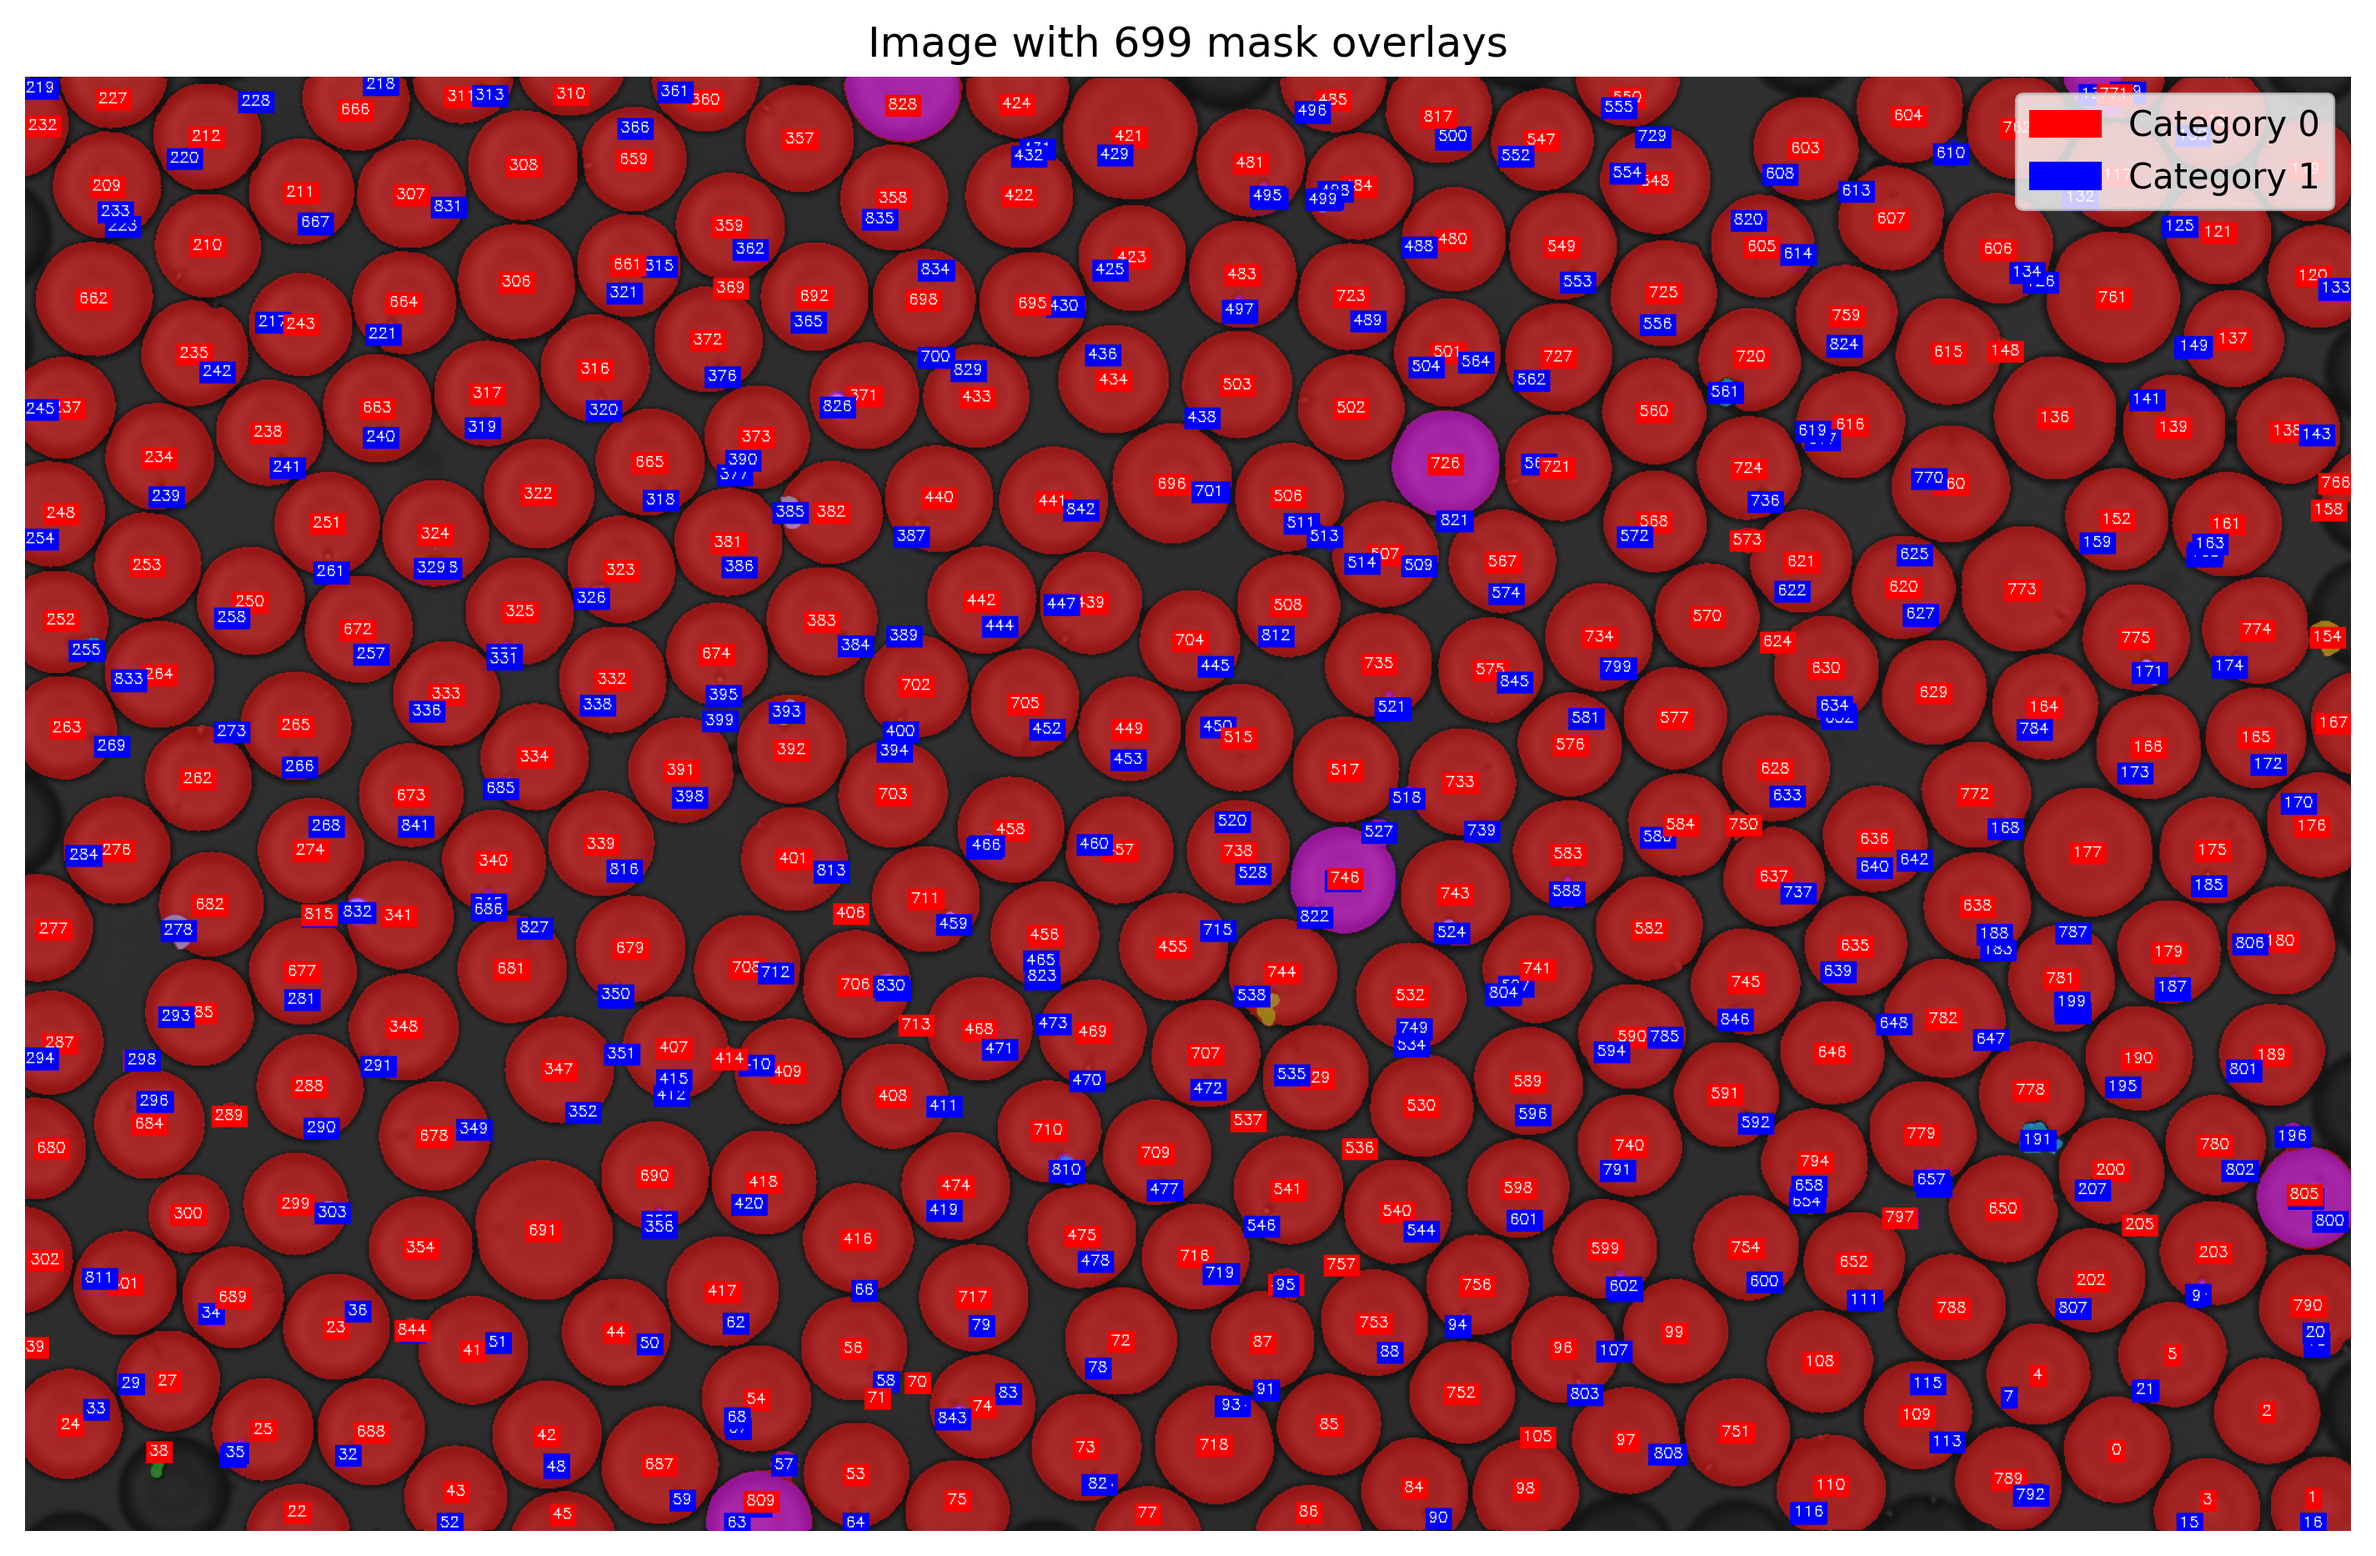
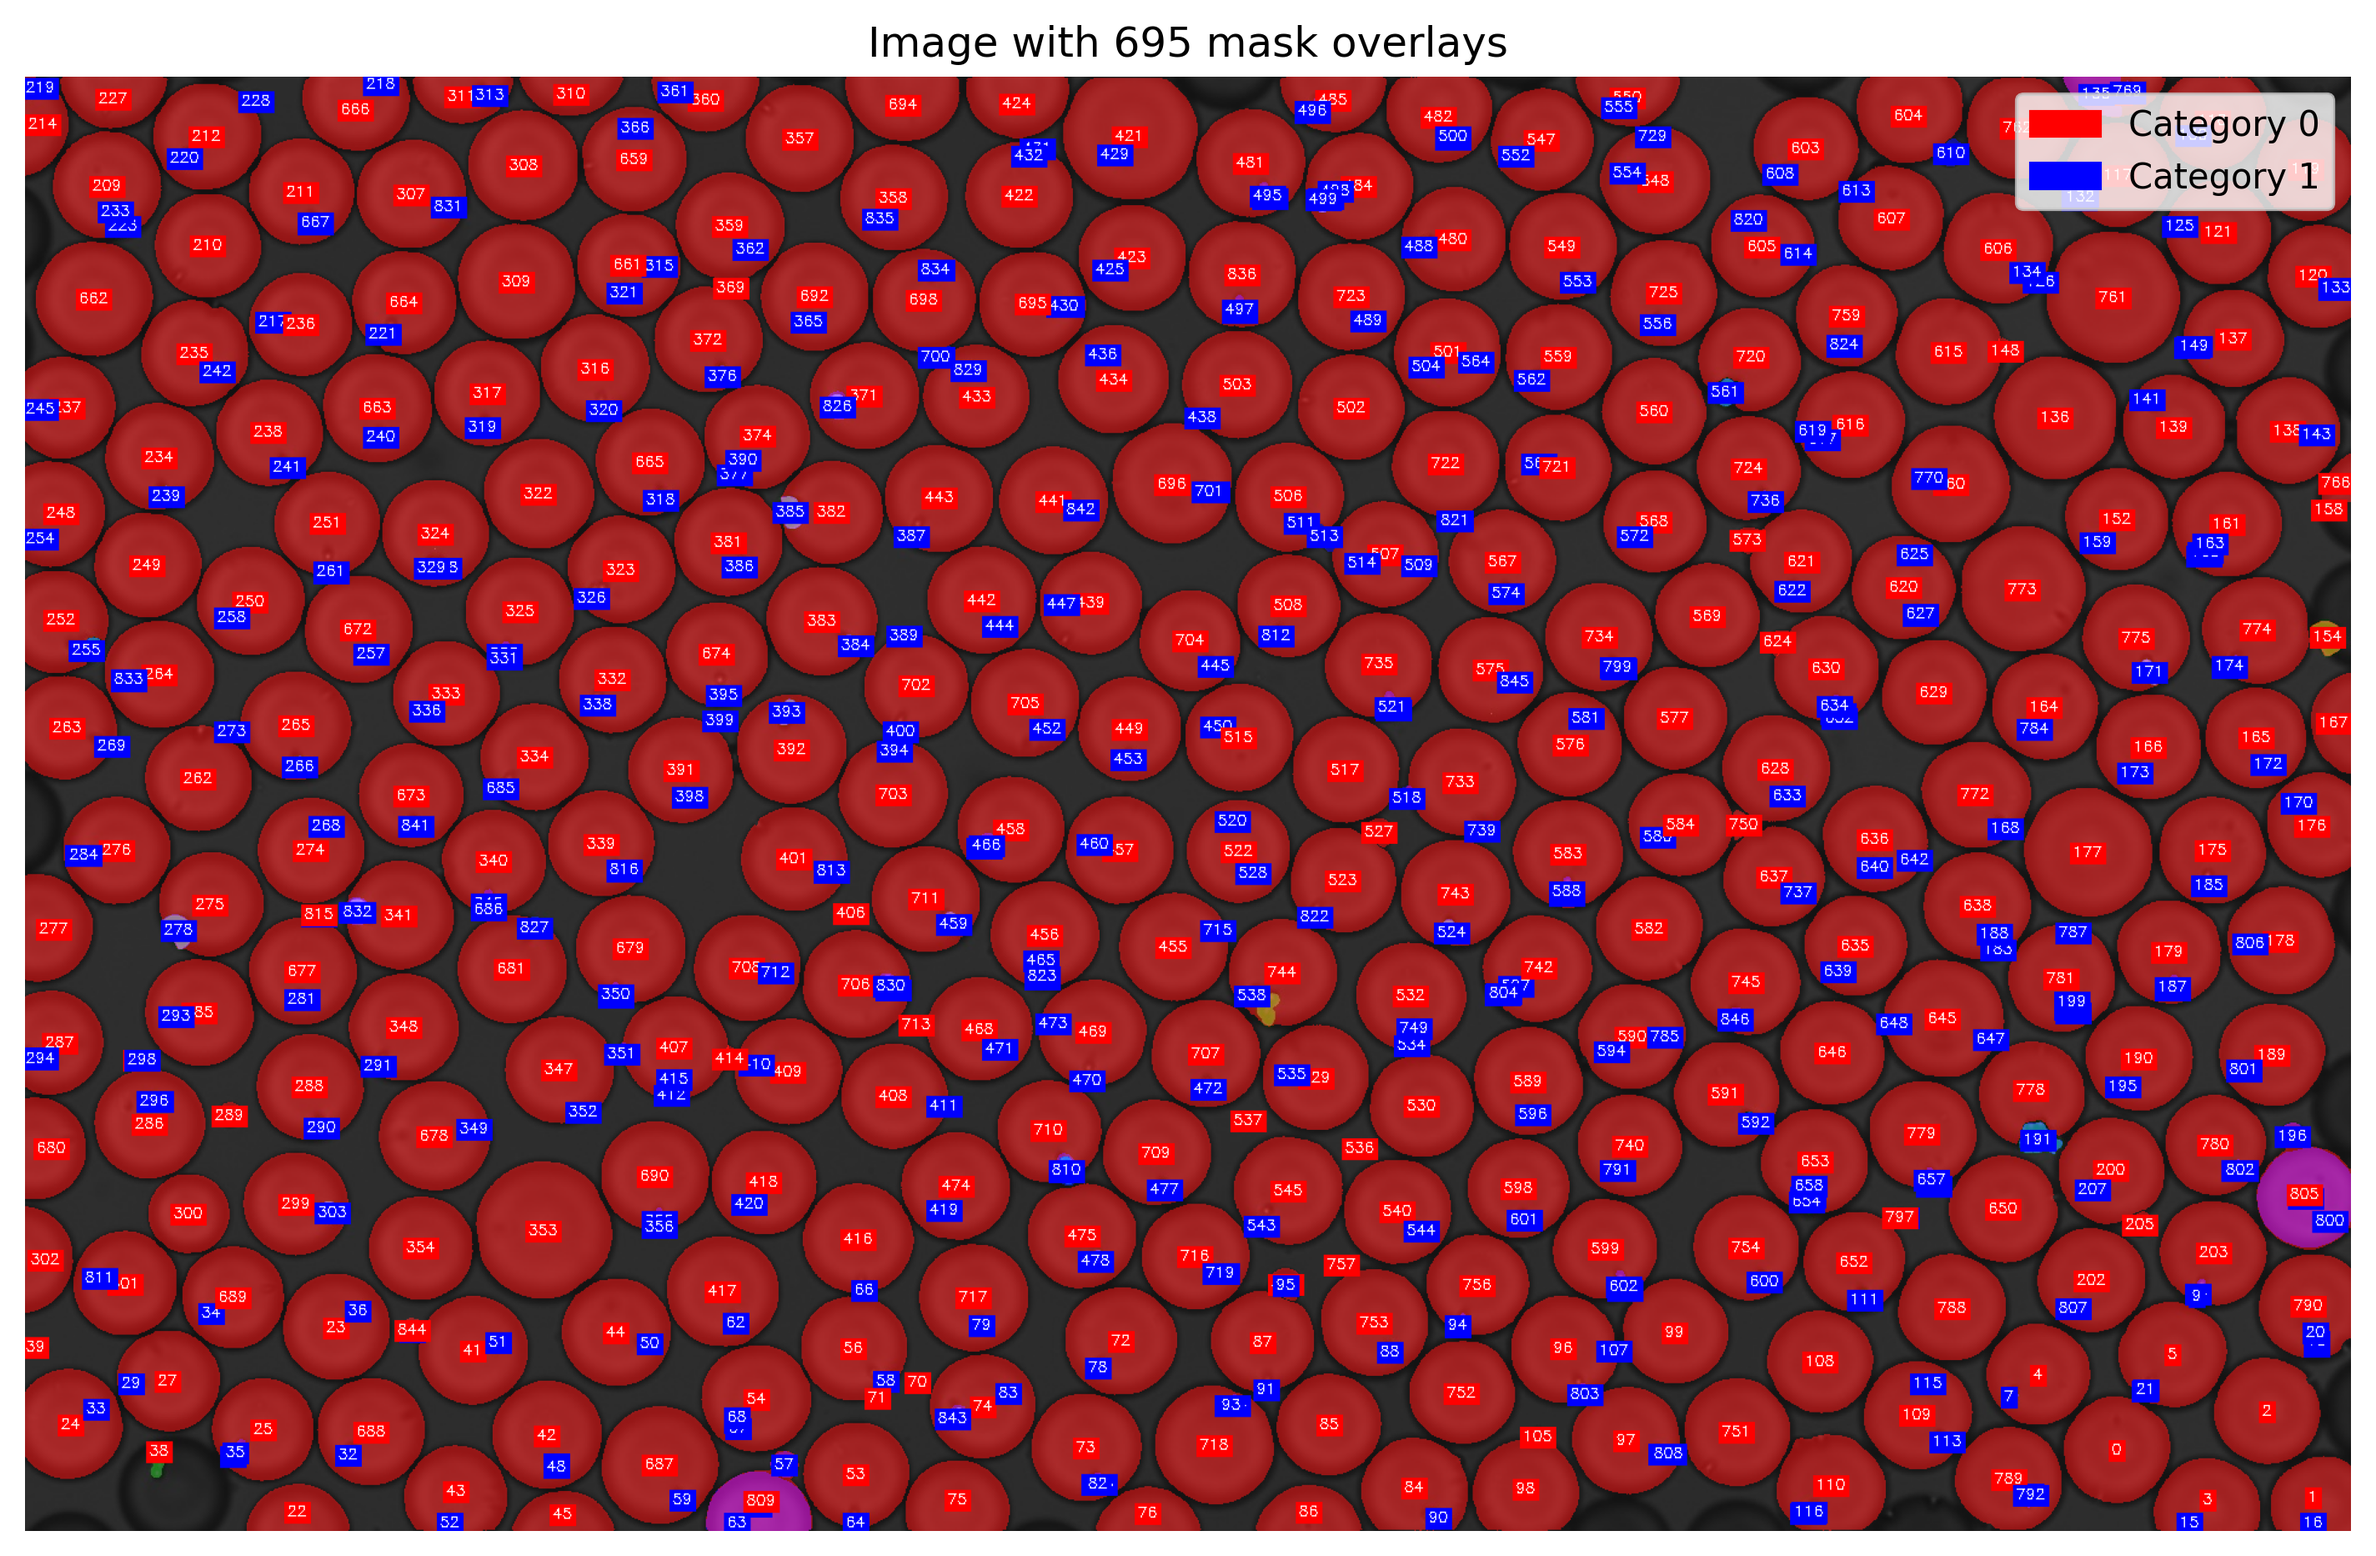
remove larger mask in filter

diff --git a/scripts/filter.py b/scripts/filter.py
@@ -123,7 +123,7 @@ def calculate_bbox_iou(bbox1: Tuple[int, int, int, int], bbox2: Tuple[int, int, 
     return intersection_area / union_area
 
 
-def apply_overlap_filter(mask_data_list: List[Dict[str, Any]], overlap_threshold: float = 0.9) -> List[Dict[str, Any]]:
+def apply_overlap_filter(mask_data_list: List[Dict[str, Any]], overlap_threshold: float = 0.8) -> List[Dict[str, Any]]:
     """
     Apply overlap filter to remove masks with high bounding box overlap.
     
@@ -163,22 +163,24 @@ def apply_overlap_filter(mask_data_list: List[Dict[str, Any]], overlap_threshold
             iou = calculate_bbox_iou(mask_data_list[i]['bbox'], mask_data_list[j]['bbox'])
             
             if iou >= overlap_threshold:
-                # Keep the mask with higher circularity score
-                circ_i = mask_data_list[i]['metadata'].get('circularity_score', 0.0)
-                circ_j = mask_data_list[j]['metadata'].get('circularity_score', 0.0)
+                # Remove the larger mask (keep the smaller one)
+                area_i = mask_data_list[i]['metadata'].get('area', 0.0)
+                area_j = mask_data_list[j]['metadata'].get('area', 0.0)
                 
                 filename_i = Path(mask_data_list[i]['path']).name
                 filename_j = Path(mask_data_list[j]['path']).name
                 
-                if circ_i >= circ_j:
-                    to_remove.add(j)
-                    mask_data_list[j]['metadata']['overlap_iou'] = round(iou, 4)
-                    mask_data_list[j]['metadata']['overlap_with'] = filename_i
-                else:
+                if area_i >= area_j:
+                    # Remove the larger mask (i)
                     to_remove.add(i)
                     mask_data_list[i]['metadata']['overlap_iou'] = round(iou, 4)
                     mask_data_list[i]['metadata']['overlap_with'] = filename_j
                     break  # Move to next i since this one is being removed
+                else:
+                    # Remove the larger mask (j)
+                    to_remove.add(j)
+                    mask_data_list[j]['metadata']['overlap_iou'] = round(iou, 4)
+                    mask_data_list[j]['metadata']['overlap_with'] = filename_i
     
     # Return filtered list
     filtered_list = []
@@ -458,8 +460,8 @@ def main():
     parser.add_argument("-o", "--output_dir", help="Output directory for filtered masks (default: creates filter_TIMESTAMP folder inside input_dir)")
     parser.add_argument("-c", "--circularity_threshold", type=float, default=0.6, 
                        help="Minimum circularity score (0.0-1.0, default: 0.6)")
-    parser.add_argument("--overlap_threshold", type=float, default=0.9,
-                       help="IoU threshold for overlap filter (0.0-1.0, default: 0.9)")
+    parser.add_argument("--overlap_threshold", type=float, default=0.8,
+                       help="IoU threshold for overlap filter (0.0-1.0, default: 0.8)")
     parser.add_argument("-e", "--extensions", nargs="+", default=["png", "jpg", "jpeg", "bmp", "tiff"],
                        help="Image file extensions to process")
     parser.add_argument("--overwrite", action="store_true", help="Overwrite input directory instead of creating new folder")
